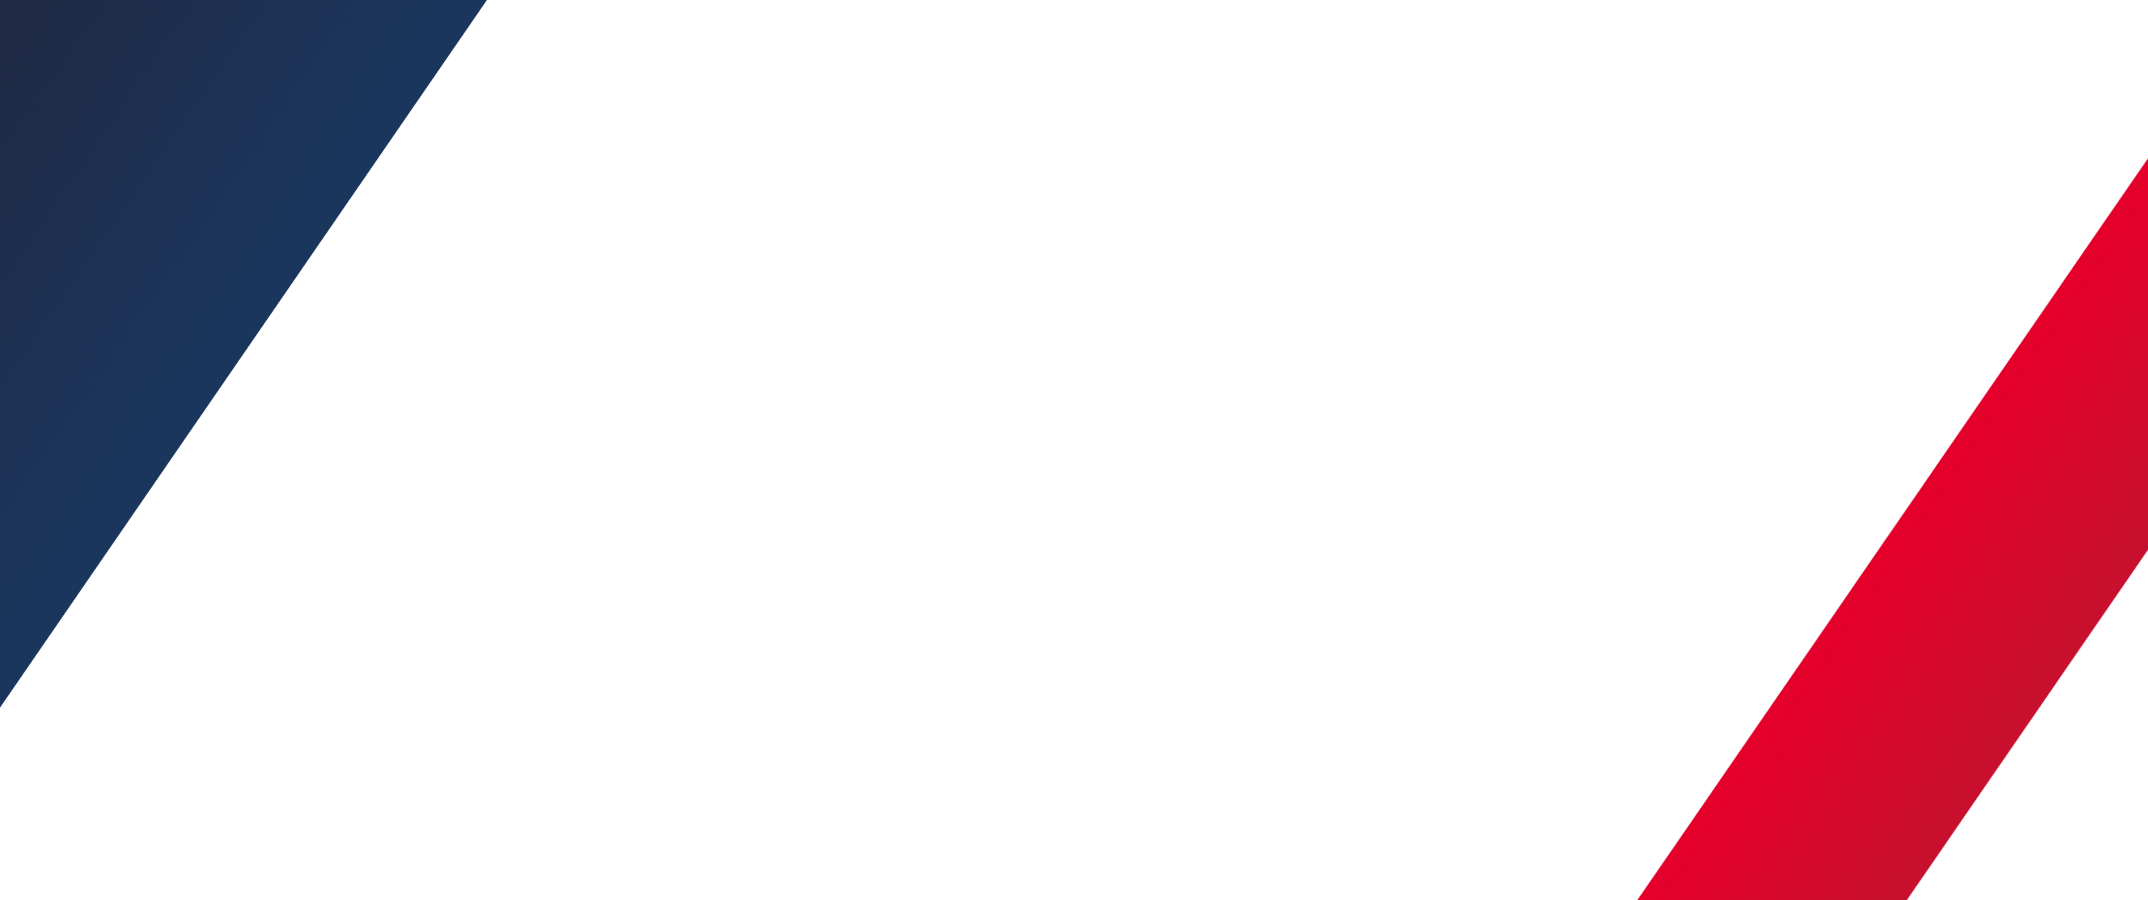
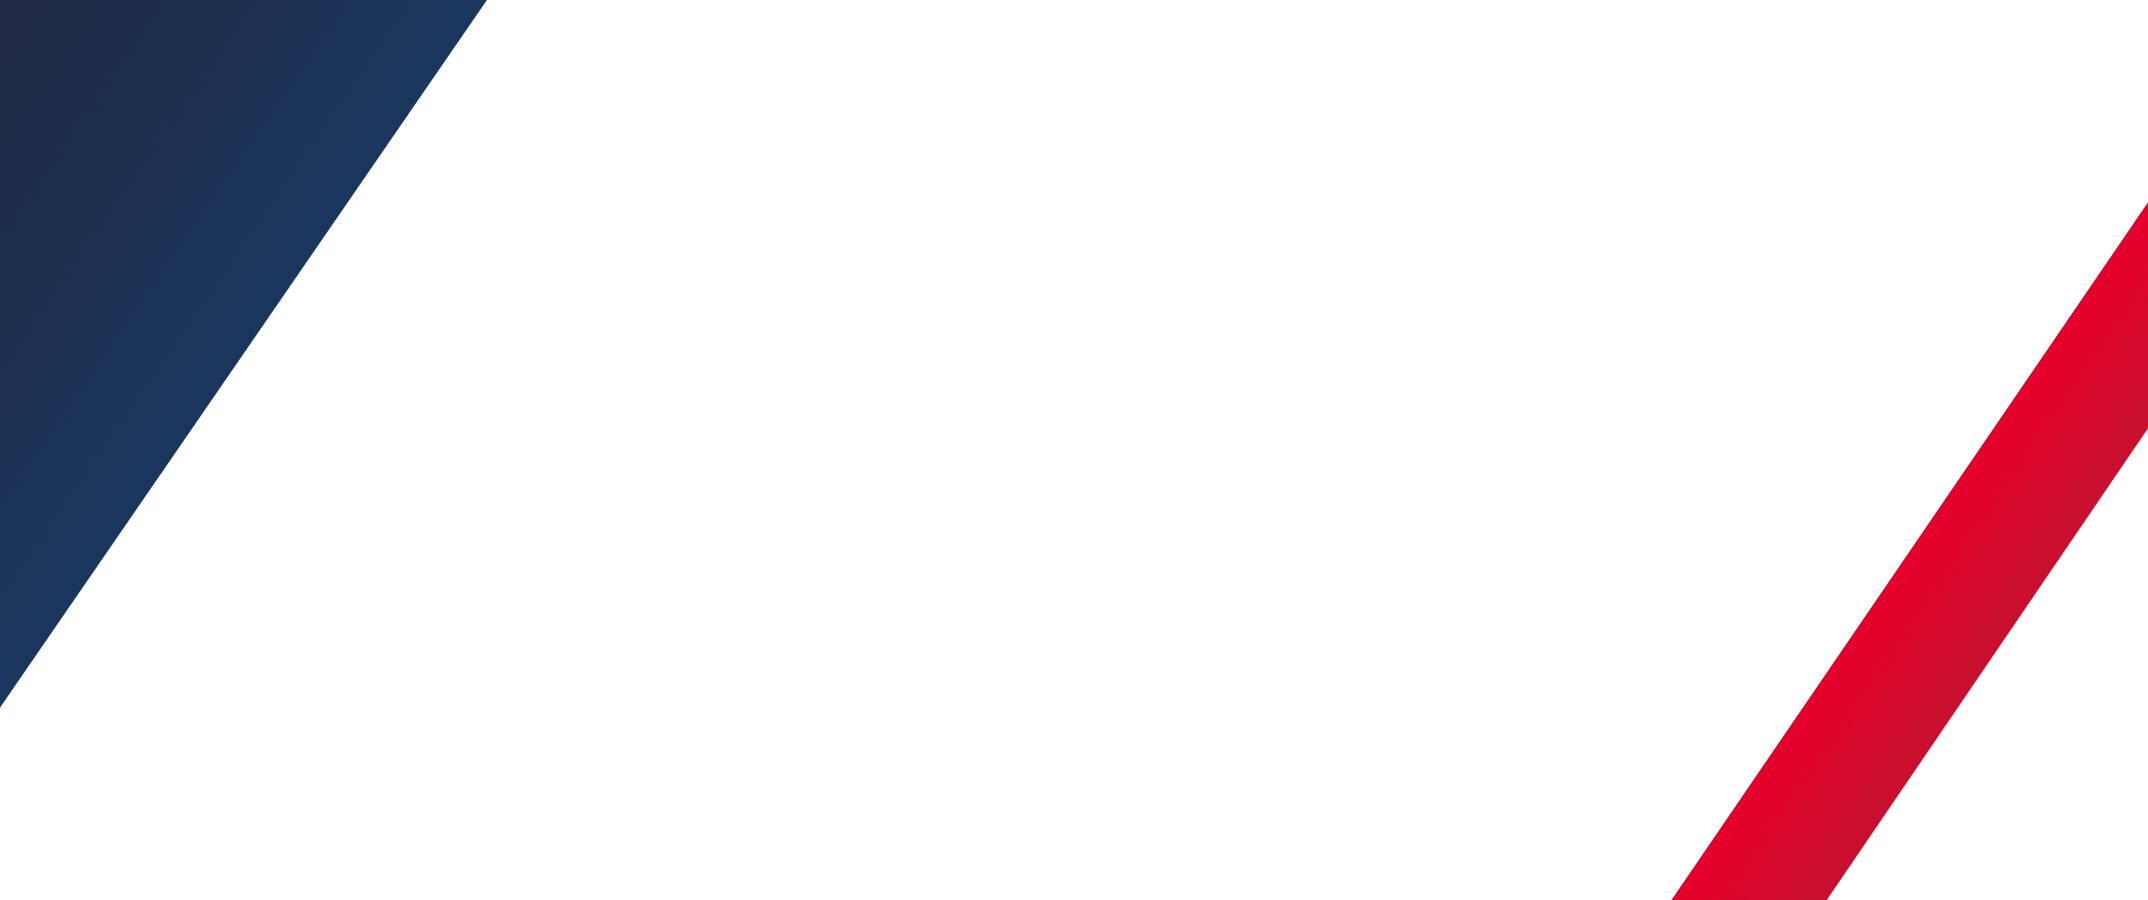
Created another version of the veco apps section and added twitter timeline to blog

Changed region(s): [[0.7486, 0.1556, 1.0, 1.0], [0.8422, 0.4667, 1.0, 1.0]]

diff --git a/index2.html b/index2.html
@@ -263,7 +263,7 @@
 
 			<!-- Our Blog Grids -->
     	<section class="content_section back-gray">
-			<span class="section_icon"><i class="fa fa-pencil-square"></i></span>
+			<span class="section_icon"><i class="fa fa-newspaper-o"></i></span>
 			<div class="content row_spacer pnone">
 				<div class="mato_title centered upper">
 					<h2><span class="line"></span>From The Blog</h2>
@@ -378,26 +378,70 @@
 			<!-- End Our Blog Grids -->
 
 			<!-- App Section -->
-		<section class="content_section bg_vecogo">
+		<section class="content_section bg_vecogo2">
 			<span class="section_icon"><i class="ico-mobile2"></i></span>
 			<div class="content">
 				<div class="row">
-					<div class="col-md-7">
-						<img class="img-responsive img-phone animated" data-animation-delay="400" data-animation="slideInUp" src="./img/vecogo-phone.png" alt="VegoGO!" />
-					</div>
-					<div class="col-md-5">
+					<div class="col-md-6">
+						<!--<img class="img-responsive img-phone animated" data-animation-delay="400" data-animation="slideInUp" src="./img/vecogo-phone.png" alt="VegoGO!" />-->
 						<div class="row">
 							<div class="col-md-12 text-right animated" data-animation-delay="900" data-animation="fadeIn">
-								<img class="img-responsive img-vecogo" src="./img/logo-vecogo.png" alt="VegoGO!" />
+								<img class="img-responsive img-vecogo" src="./img/logo-vecoaccess.png" alt="VecoAccess" />
+							</div>
+						</div>
+						<div class="row text-center">
+							<div class="col-md-3">
+								<div class="row">
+									<i class="fa fa-calendar-check-o veco-app-icons"></i>
+								</div>
+								<div class="row">
+									<h6>Container Request Control Tool</h6>
+								</div>
+							</div>
+							<div class="col-md-3">
+								<div class="row">
+									<i class="fa fa-credit-card veco-app-icons"></i>
+								</div>
+								<div class="row">
+									<h6>Online Payments</h6>
+								</div>
+							</div>
+							<div class="col-md-3">
+								<div class="row">
+									<i class="fa fa-laptop veco-app-icons"></i>
+								</div>
+								<div class="row">
+									<h6>Sleek New Design</h6>
+								</div>
+							</div>
+							<div class="col-md-3">
+								<div class="row">
+									<i class="fa fa-map-marker veco-app-icons"></i>
+								</div>
+								<div class="row">
+									<h6>24/7 Container Tracking</h6>
+								</div>
+							</div>
+						</div>
+						<div class="row">
+							<div class="col-md-12 text-center">
+								<a class="btn btn-vecoapp" href="#"><i class="fa fa-sign-in"></i> Sign in!</a>
+							</div>
+						</div>
+					</div>
+					<div class="col-md-5 col-md-offset-1">
+						<div class="row">
+							<div class="col-md-12 text-right animated" data-animation-delay="900" data-animation="fadeIn">
+								<img class="img-responsive img-vecogo" src="./img/logo-vecogo.png" alt="VecoGO!" />
 								<h4>Information at your fingertips!</h4>
 							</div>
 						</div>
 						<div class="row">
 							<div class="col-md-6">
-								<a href='https://play.google.com/store/apps/details?id=codefuel.veconinter.main&pcampaignid=MKT-Other-global-all-co-prtnr-py-PartBadge-Mar2515-1' target="_blank"><img class="img-responsive animated" alt='Get it on Google Play' data-animation-delay="1200" data-animation="zoomIn" src='./img/googleplay.png'/></a>
+								<a href='https://play.google.com/store/apps/details?id=codefuel.veconinter.main&pcampaignid=MKT-Other-global-all-co-prtnr-py-PartBadge-Mar2515-1' target="_blank"><img class="img-responsive img-app animated" alt='Get it on Google Play' data-animation-delay="1200" data-animation="zoomIn" src='./img/googleplay.png'/></a>
 							</div>
 							<div class="col-md-6">
-								<a href='https://itunes.apple.com/ve/app/veco-go/id1033764371' target="_blank"><img class="img-responsive animated" alt='Get it on App Store' data-animation-delay="1200" data-animation="zoomIn" src='./img/appstore.png'/></a>
+								<a href='https://itunes.apple.com/ve/app/veco-go/id1033764371' target="_blank"><img class="img-responsive img-app animated" alt='Get it on App Store' data-animation-delay="1200" data-animation="zoomIn" src='./img/appstore.png'/></a>
 							</div>
 						</div>
 					</div>

diff --git a/css/styles.css b/css/styles.css
@@ -66,6 +66,7 @@ ul.marquee li {
 }
 #navy > li > a > span {
     padding: 38px 15px 28px 15px;
+    font-weight: 500;
 }
 #navy {
     margin-bottom: 0;
@@ -170,7 +171,7 @@ a:hover {
     transition: all 0.4s ease !important;
 }
 .mato_title .line:before {
-    background: #1b365d;
+    background: #e4002b;
 }
 .mato_title .line i {
     color: #4f758b;
@@ -240,13 +241,17 @@ a.img_popup > span {
     /*background: -moz-linear-gradient(150deg, transparent 10%, #C8102E 10%, #e4002b 20%, transparent 20%, transparent 85%, #1b365d 85%, #1F2A44 100%);*/
     /*background: linear-gradient(120deg, #1F2A44 0%, #1b365d 15%, transparent 15%, transparent 85%, #e4002b 85%, #C8102E 95%, transparent 95%, transparent 100%);*/
     background: url("../img/diagonalbg.png");
-    background-size: 100% 100%;
+    background-size: auto 100%;
+    background-position: center;
+    background-repeat: no-repeat;
 }
 .bg_services2 {
     /*background: linear-gradient(#4f758b, #2c4351);*/
     /*background-image: -webkit-linear-gradient(150deg, transparent 5%, #1F2A44 5%, #1b365d 15%, transparent 15%, transparent 85%, #e4002b 85%, #C8102E 100%);*/
     background: url("../img/diagonalbg.png");
-    background-size: 100% 100%;
+    background-size: auto 100%;
+    background-position: center;
+    background-repeat: no-repeat;
 }
 .bg_services2 > div > .div-icons_con > div > .div-serv > .div-serv_con h3 {
     color: #324545 !important;
@@ -258,18 +263,48 @@ a.img_popup > span {
     /*background-image: -moz-linear-gradient(150deg, transparent 55%, #C8102E 55%, #e4002b 55%, #e4002b 65%, #e4002b 65%, #1b365d 65%, #1b365d 65%, #1F2A44 100%);*/
     /*background-image: -webkit-linear-gradient(150deg, transparent 55%, #C8102E 55%, #e4002b 55%, #e4002b 65%, #e4002b 65%, #1b365d 65%, #1b365d 65%, #1F2A44 100%);*/
     background: url("../img/diagonalbg2.png");
+    background-size: auto 100%;
+    background-position: center;
+    background-repeat: no-repeat;
+}
+.bg_vecogo2 {
+    /*background-image: -moz-linear-gradient(150deg, transparent 55%, #C8102E 55%, #e4002b 55%, #e4002b 65%, #e4002b 65%, #1b365d 65%, #1b365d 65%, #1F2A44 100%);*/
+    /*background-image: -webkit-linear-gradient(150deg, transparent 55%, #C8102E 55%, #e4002b 55%, #e4002b 65%, #e4002b 65%, #1b365d 65%, #1b365d 65%, #1F2A44 100%);*/
+    background: url("../img/diagonalbg3.png");
+    background-size: auto 100%;
     background-position: center;
     background-repeat: no-repeat;
 }
 .img-vecogo {
     margin: 80px 0 10px 0 ;
 }
+.img-app {
+    margin-bottom: 80px;
+}
 .img-phone {
     margin: 0 auto;
     margin-top: 20px;
 }
-.bg_vecogo h4 {
+.bg_vecogo h4, h6 {
+    color: #333;
+    font-weight: 600;
+    padding: 3px;
+}
+.veco-app-icons {
+    font-size: 48px;
+    margin: 10px;
     color: #364958;
+}
+.btn-vecoapp {
+    background-color: black;
+    color: #FFF;
+    font-size: 18px;
+    font-weight: 600;
+    box-shadow: 1px 1px 3px #333;
+    margin-bottom: 50px;
+}
+.btn-vecoapp:hover {
+    color: #4f758b;
 }
 .inwhite .div-icons_con.style1 .div-serv .desc, .inwhite .div-icons_con.style2 .div-serv .desc {
     color: #ddd;

diff --git a/index.html b/index.html
@@ -262,7 +262,7 @@
         
         <!-- Our Blog Grids -->
     	<section class="content_section back-gray">
-			<span class="section_icon"><i class="fa fa-pencil-square"></i></span>
+			<span class="section_icon"><i class="fa fa-newspaper-o"></i></span>
 			<div class="content row_spacer pnone">
 				<div class="mato_title centered upper">
 					<h2><span class="line"></span>From The Blog</h2>

diff --git a/blog.html b/blog.html
@@ -623,7 +623,13 @@
 						</div>
 					</div>
 					<!-- Popular Posts -->
-
+					<a class="twitter-timeline"
+						href="https://twitter.com/Veconinter"
+						data-height="1200"
+						data-link-color="#4f758b">
+						Tweets by Veconinter
+					</a>
+					<script async src="//platform.twitter.com/widgets.js" charset="utf-8"></script>
 				</aside>
 				<!-- End sidebar -->
 			</div>
